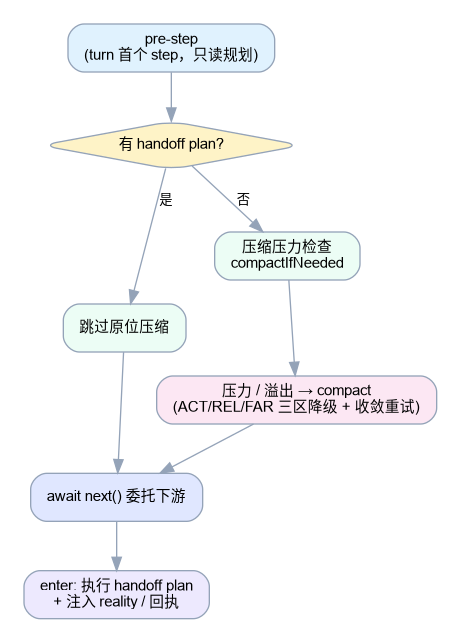
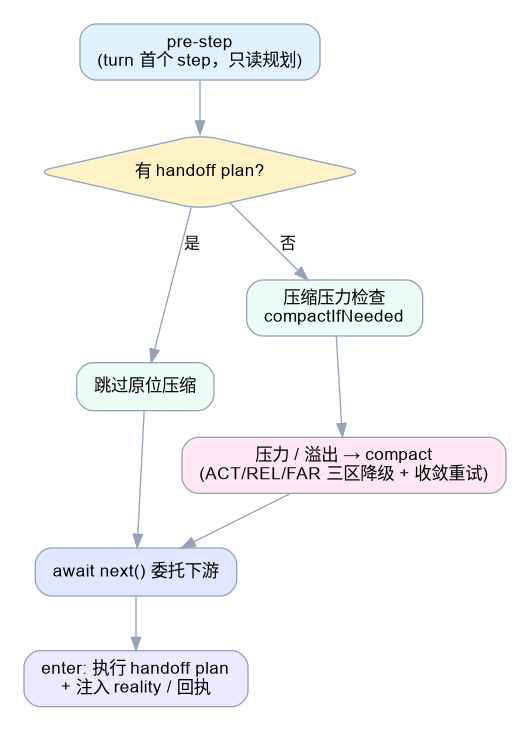
docs: 框图改竖版 + 文字与正文适配
- pipeline/topic-blocks/tool-rewrite 全部 rankdir=TB 竖版；topic-blocks 重构为竖向叙事链（机制写进箭头标签）
- 96dpi 自然尺寸渲染（文字≈17px≈正文）；README 去掉固定宽度，按自然尺寸显示

Changed region(s): [[0.0304, 0.0311, 0.9718, 0.9953], [0.3037, 0.3421, 0.3341, 0.4355], [0.1215, 0.0622, 0.1518, 0.0933]]

diff --git a/README.md b/README.md
@@ -74,7 +74,7 @@ It is a DSH-port of the Context Assembler design (see [docs/DESIGN.md](docs/DESI
 | **`ca-db` public library** | Exported persistence DDL/helpers for topics & realities (`context-assembler-dsh/ca-db`) |
 
 <p align="center">
-  <img src="docs/images/topic-blocks.png" alt="话题块机制" width="72%"/>
+  <img src="docs/images/topic-blocks.png" alt="话题块机制"/>
   <br/><em>话题块机制：块内摘要版本保持稳定前缀（缓存命中），切换时定级冻结，块开头注入 reality</em>
 </p>
 
@@ -117,13 +117,13 @@ Local 4B backfill endpoints (`toolBackfillUrl`, `realityEmbedUrl`, `oodaBackfill
 ## How it works
 
 <p align="center">
-  <img src="docs/images/pipeline.png" alt="pre-step 流水线" width="72%"/>
+  <img src="docs/images/pipeline.png" alt="pre-step 流水线"/>
 </p>
 
 Inside `pre-step`, the plugin runs a fixed order: **handoff planning first, compaction as fallback** (per user ruling): only when there is no handoff plan does it run the compaction pressure check; then it delegates downstream and, on `enter`, executes the handoff plan and appends injection/reality receipts. Only the first step of a turn decides (A19). All pressure diagnostics are isolated per session.
 
 <p align="center">
-  <img src="docs/images/tool-rewrite.png" alt="工具轮压缩链路" width="72%"/>
+  <img src="docs/images/tool-rewrite.png" alt="工具轮压缩链路"/>
   <br/><em>工具轮压缩：确定性结构化摘要 + wire 级结果改写（dry-run 可验证），压缩云端 token 成本</em>
 </p>
 

diff --git a/README.zh.md b/README.zh.md
@@ -88,7 +88,7 @@
 | **`ca-db` 公开库** | 话题/realities 持久化 DDL 与辅助（`context-assembler-dsh/ca-db` 导出） |
 
 <p align="center">
-  <img src="docs/images/topic-blocks.png" alt="话题块机制" width="72%"/>
+  <img src="docs/images/topic-blocks.png" alt="话题块机制"/>
   <br/><em>话题块机制：块内摘要版本保持稳定前缀（缓存命中），切换时定级冻结，块开头注入 reality</em>
 </p>
 
@@ -131,13 +131,13 @@ pnpm build
 ## 工作原理
 
 <p align="center">
-  <img src="docs/images/pipeline.png" alt="pre-step 流水线" width="72%"/>
+  <img src="docs/images/pipeline.png" alt="pre-step 流水线"/>
 </p>
 
 在 `pre-step` 内按固定顺序执行（用户裁定：**handoff 优先、压缩兜底**）：先做 handoff 只读规划（有 plan 则跳过原位压缩）→ 无 plan 才做压缩压力检查 → `await next()` 委托下游 → 仅下游 `enter` 时执行 handoff plan 并追加注入/reality 回执。仅 turn 内首个 step 决策（A19）。压力诊断按 session 隔离。
 
 <p align="center">
-  <img src="docs/images/tool-rewrite.png" alt="工具轮压缩链路" width="72%"/>
+  <img src="docs/images/tool-rewrite.png" alt="工具轮压缩链路"/>
   <br/><em>工具轮压缩：确定性结构化摘要 + wire 级结果改写（dry-run 可验证），压缩云端 token 成本</em>
 </p>
 
